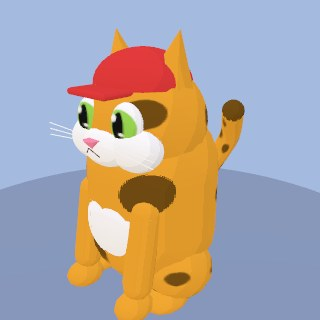
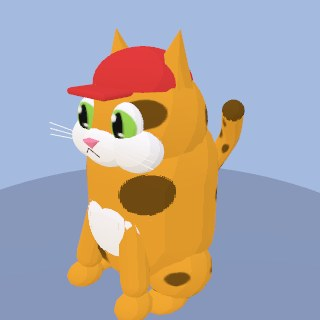
Sit pose: lean the front-leg tops inward so they bury in the chest
The lengthened leg tops still stood proud at shoulder x, where the torso
surface has curved away. Each leg now tips its top toward the body midline
(armLean 0.22 rad) — the chest bulges most at x0, so the tops tuck fully
under the surface — while the mesh slides outward so the paw end stays
planted. Leaning arms are mirrored left/right, so the arm merge cache now
keys per side. Catalog thumbnails regenerated.

Claude-Session: https://claude.ai/code/session_017fyz1DfGtQ1NoLSq3UX5Bd

diff --git a/src/models.js b/src/models.js
@@ -620,8 +620,11 @@ const ARM_POSES = {
   // (paw bottoms at the floor) and reach a touch forward, clear of the hind feet.
   // armLen stretches the leg capsule UP so its top buries deep inside the
   // chest (the default 0.6 ends right at the body surface, showing the cap's
-  // rounding and an intersection seam); the paw end stays put.
-  sit: { armR: 0.19, armRot: -0.18, armLen: 0.95, armPos: [0, -0.41, 0.27], pawPos: [0, -1.16, 0.42], pawScale: [1.05, 0.8, 1.3], beans: false },
+  // rounding and an intersection seam); the paw end stays put. armLean tips
+  // the TOP toward the body midline — the chest bulges most at x0, so an
+  // inward-leaning top tucks fully under the surface instead of standing
+  // proud of the flatter surface out at shoulder x.
+  sit: { armR: 0.19, armRot: -0.18, armLen: 0.95, armLean: 0.22, armPos: [0, -0.41, 0.27], pawPos: [0, -1.16, 0.42], pawScale: [1.05, 0.8, 1.3], beans: false },
   // Standing on the hind legs like a curious meerkat-cat: front paws dangle at
   // the sides, hind feet planted under the body (built in the stand block below).
   stand: { armR: 0.17, armRot: -0.06, armPos: [0, -0.5, 0.04], pawPos: [0, -1.0, 0.16], pawScale: [1, 0.85, 1.2], beans: false },
@@ -737,6 +740,13 @@ export function createCat(furColor = 0xf0a830, opts = {}) {
     const arm = new THREE.Mesh(new THREE.CapsuleGeometry(ap.armR, ap.armLen ?? 0.6, 4, 10), pawMat);
     arm.position.set(...ap.armPos);
     arm.rotation.x = ap.armRot;
+    if (ap.armLean) {
+      // Tip the top toward the midline, sliding the mesh outward so the paw
+      // end stays planted where it was.
+      arm.rotation.z = sx * ap.armLean;
+      const half = (ap.armLen ?? 0.6) / 2 + ap.armR;
+      arm.position.x -= sx * Math.sin(ap.armLean) * half;
+    }
     parts.push(arm);
     const paw = new THREE.Mesh(new THREE.SphereGeometry(0.21, 12, 12), pawMat);
     paw.position.set(...ap.pawPos);
@@ -753,7 +763,8 @@ export function createCat(furColor = 0xf0a830, opts = {}) {
     }
     // one mesh per arm; the pivot still pumps it. Geometry is identical for every
     // cat of a pose (colours live in the materials) — shared via the merge cache.
-    pivot.add(mergeMeshes(parts, { geoKey: `carm|${pose}` }));
+    // A leaning arm is mirrored left/right, so those poses cache per side.
+    pivot.add(mergeMeshes(parts, { geoKey: `carm|${pose}|${ap.armLean ? (sx < 0 ? "L" : "R") : "c"}` }));
     arms[sx < 0 ? "L" : "R"] = pivot;
   }
   if (pose === "sit") {
